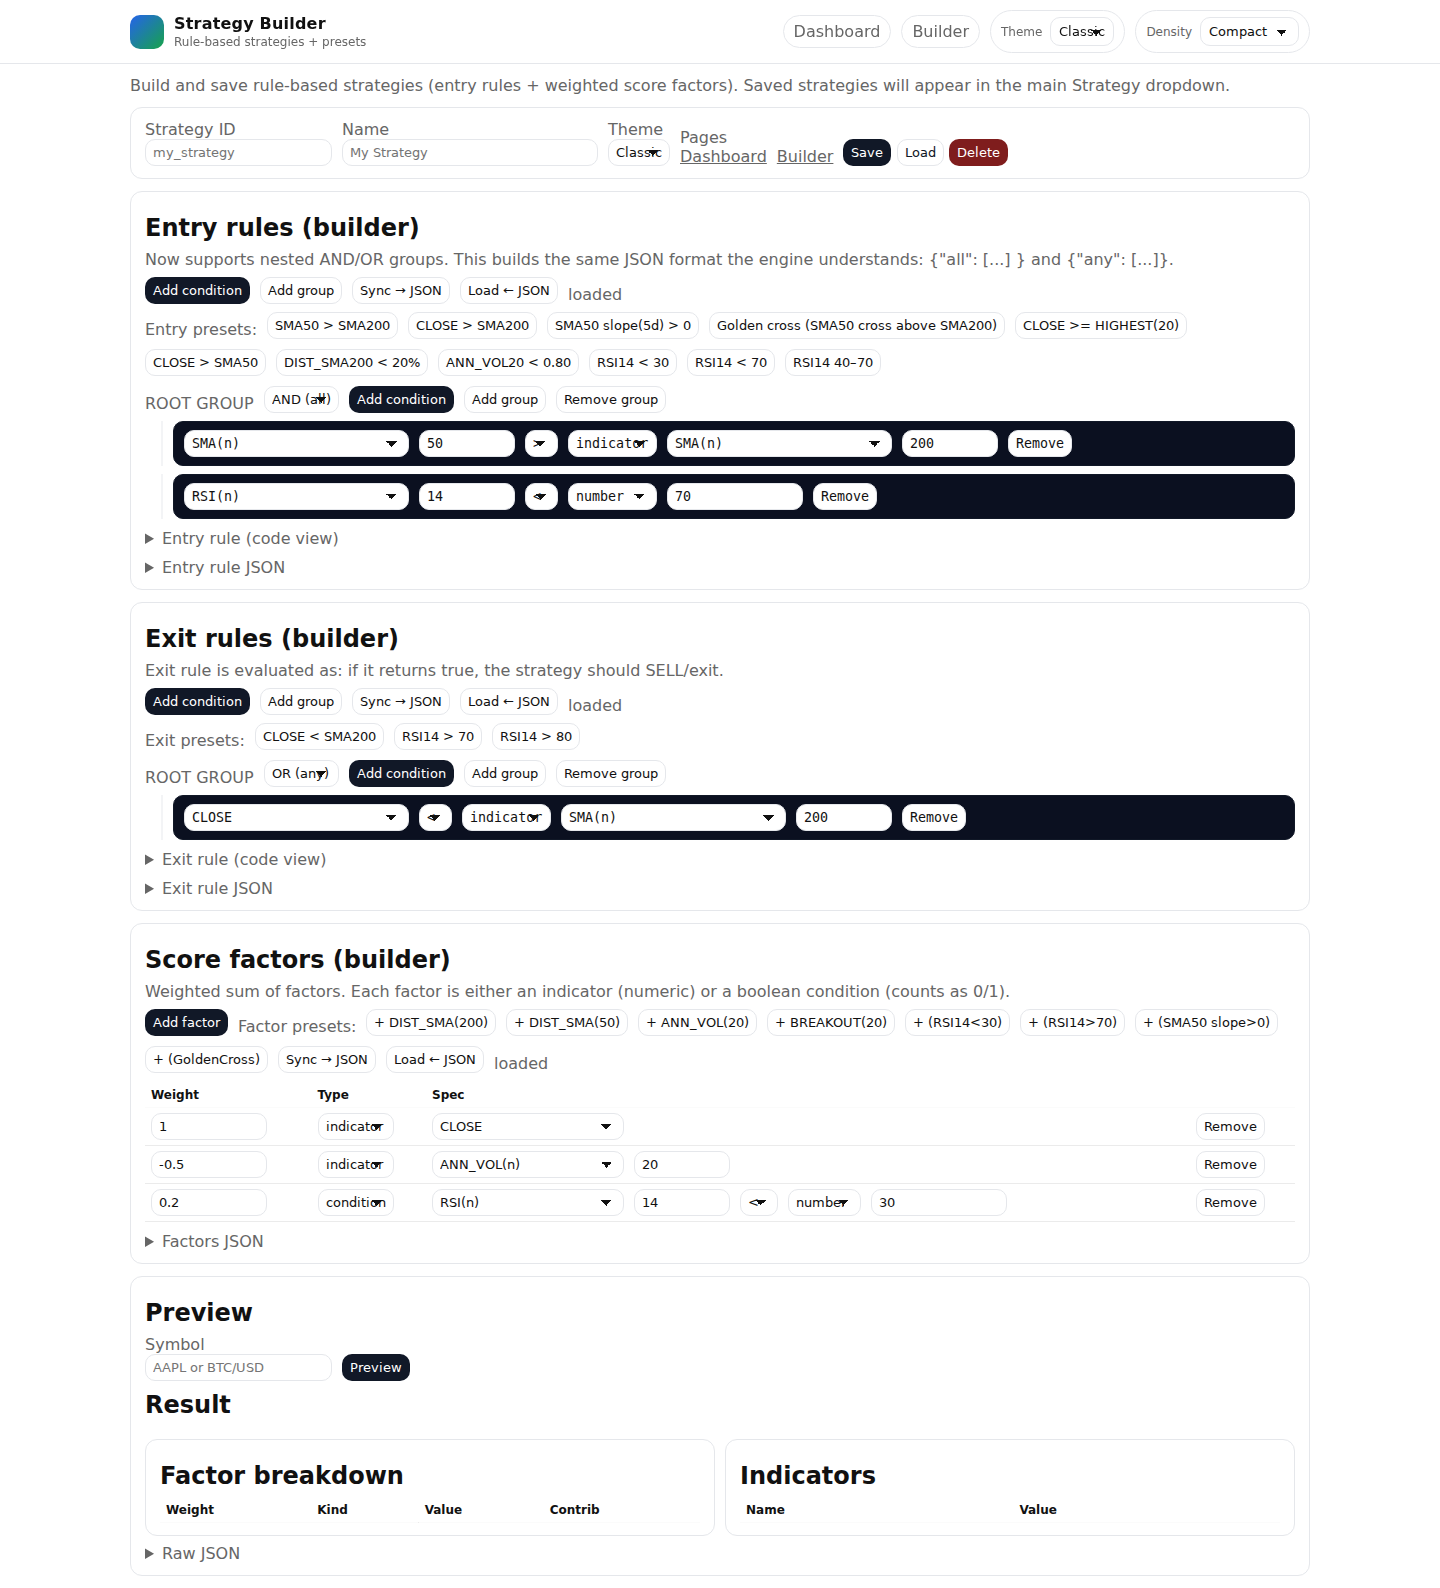
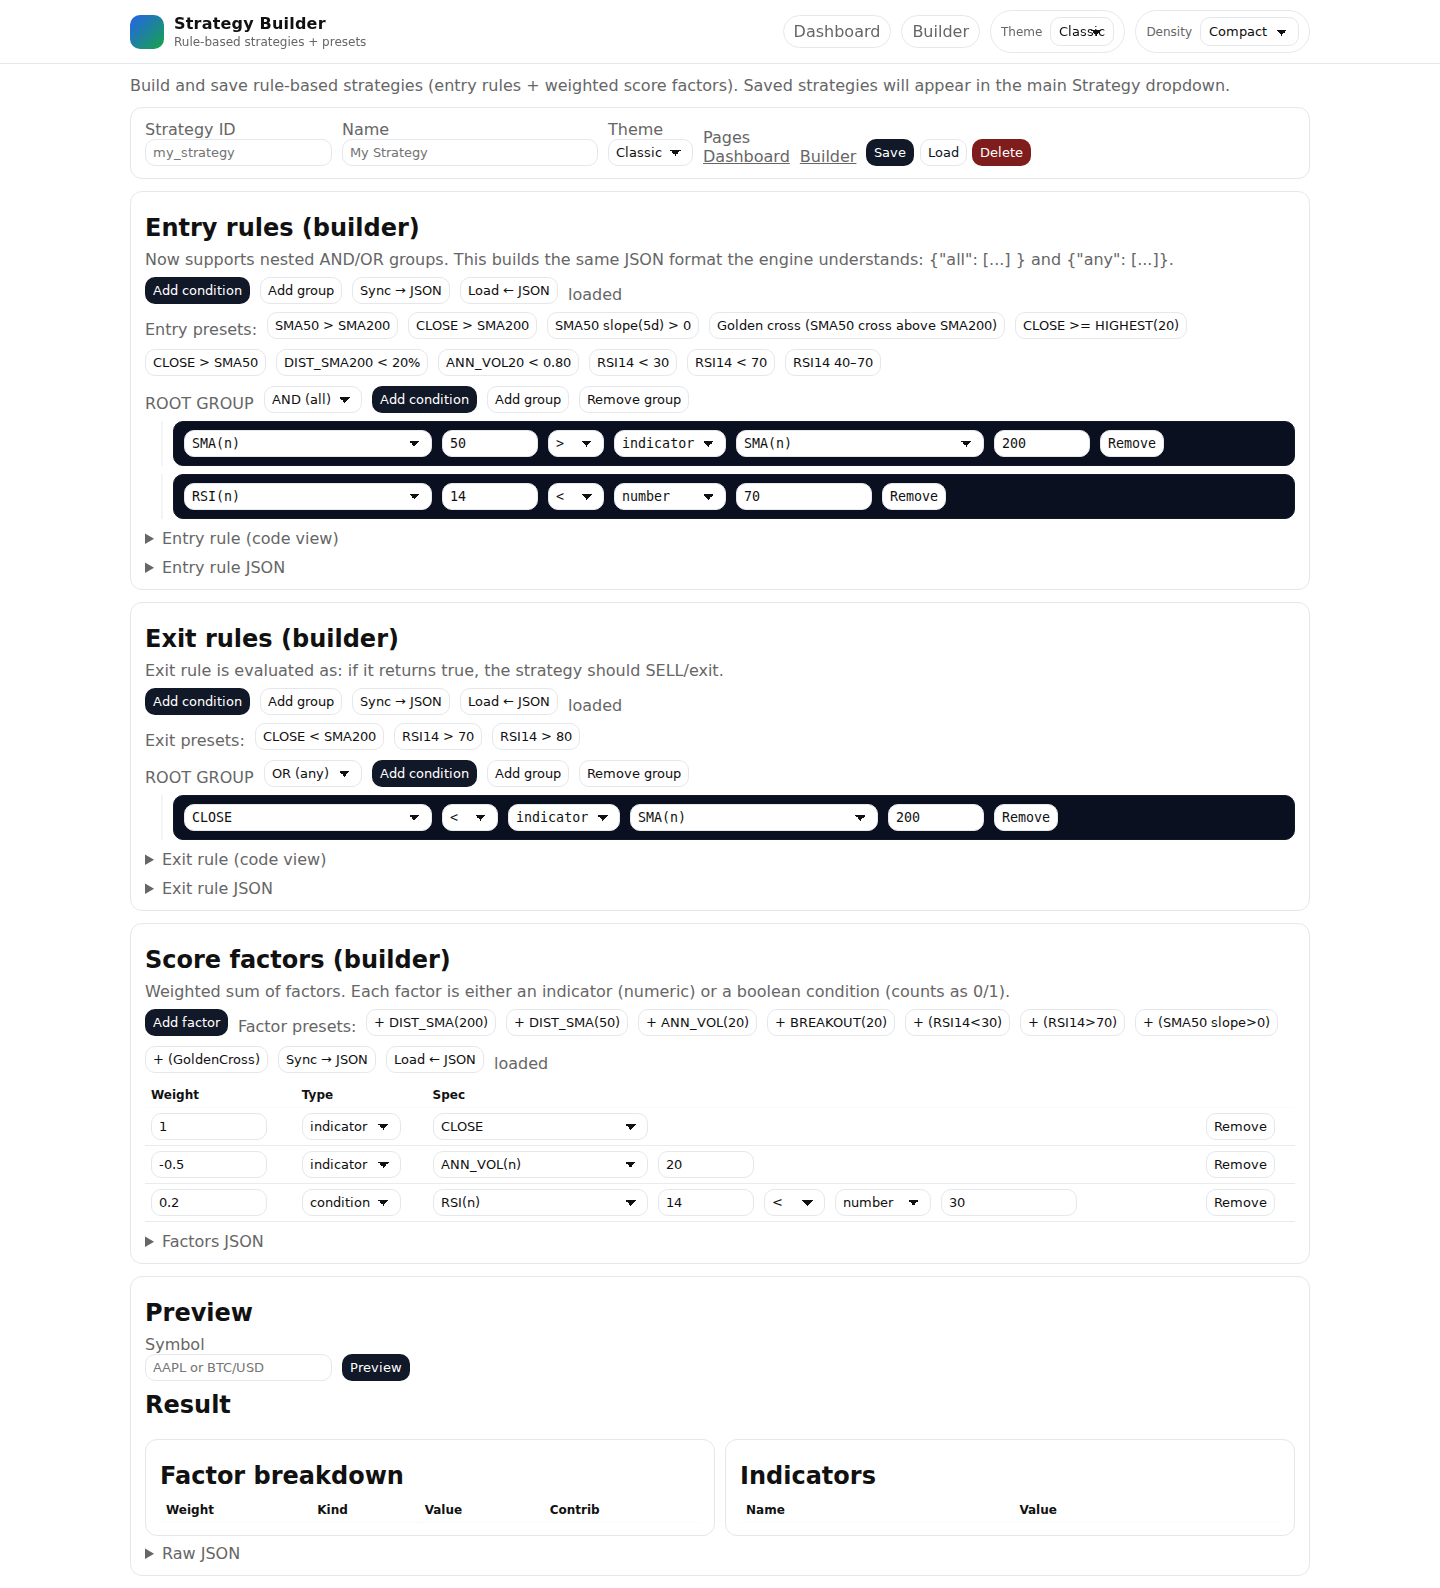
README refresh + updated dashboard/builder screenshots + changelog

diff --git a/README.md b/README.md
@@ -104,7 +104,8 @@ Build a safe, unattended swing/long-term trading bot that:
 - Daily risk-check with drawdown tracking and exit signals
 - Dashboard with monitoring + backtesting UI + Strategy Builder
 - Strategy registry supports built-ins + user-defined strategies
-- Backtest engine supports stocks/crypto, slippage model, portfolio DD stop behavior A, per-asset stop loss, and many toggles
+- Unified preset system (`config/presets.yaml`) for backtest + live/paper parity
+- Backtest engine supports stocks/crypto, slippage + limit-order simulation, intraday execution, order lifecycle events, and many toggles
 
 ---
 
@@ -275,13 +276,14 @@ Default URL:
 - http://127.0.0.1:8008
 
 Dashboard highlights:
-- Account overview, positions, open orders, fills
-- Exposure view including **pending orders** and estimated quantities
+- Account section grouped into meaningful blocks (identity, cash/equity, risk/restrictions, buying power/margin)
+- Open orders, recent fills, exposure view (pending notional/qty)
 - Run artifacts (last rebalance / last risk-check / last placed orders)
-- Backtesting UI (run + history + charts)
-- Strategy dropdown and a button to open the Strategy Builder
-- Action buttons: **Run paper rebalance**, **Run at configured time**, and **Run risk-check** (token-gated if enabled)
-- Extended-hours start time is configurable via `execution.extended_hours_start_time_local` (used by "Run at configured time" when extended-hours is enabled)
+- Backtesting UI with presets, execution modes, limit/fallback modeling, daily ledger, and drilldowns
+- Search filters for realized trades and daily ledger symbols
+- Action buttons: **Run paper rebalance**, **Run at configured time**, and **Run risk-check**
+- Scheduler controls: **Setup cron / Restart cron / Stop cron** + cron detection/status
+- Bot-state flags for queued rebalance and queued daily risk-check, with schedule visibility
 
 ### Dashboard auth token
 Token gating can be enabled/disabled via env/config:
@@ -338,16 +340,21 @@ Backtests run in the background via the dashboard or programmatically.
 ### Features
 - Stocks + crypto support
 - Slippage model (bps)
-- Weekly or daily rebalance
+- Weekly or daily rebalance (+ weekly rebalance day selector)
+- Limit order simulation (with optional fallback to market-at-open)
+- Pending limit lifecycle simulation:
+  - place limit
+  - fill when touched (minute bars when intraday data available)
+  - optional fallback market fill
+  - cancel unfilled at next rebalance boundary
+- Order lifecycle summary in results (placed / filled / fallback / canceled)
 - Liquidation modes:
   - liquidate non-selected
   - hold until exit
 - Per-asset stop loss (daily check)
-- Portfolio drawdown stop (behavior A: liquidate-to-cash, resume next rebalance)
+- Portfolio drawdown stop
 - Strategy selection in the backtest UI
-- Benchmarks overlay (S&P 500 index line; SPY comparison line can be toggled/removed)
-- Interactive charts (Plotly): hover, zoom, range slider, unified x-hover
-- Portfolio RSI plotted under the equity curve
+- Interactive charts + symbol drilldowns + event markers
 - Optional exclusion rule: stop trading a symbol if its P/L falls below a floor
   - optionally includes unrealized P/L
   - optionally liquidates immediately when excluded
@@ -435,3 +442,28 @@ tradebot rebalance --config config/config.yaml --place-orders
 # daily risk check
 tradebot risk-check --config config/config.yaml
 ```
+
+---
+
+## Changelog
+
+### 2026-02-09
+- Added unified preset behavior improvements (config values override preset defaults)
+- Added dashboard execution controls for limit/market behavior, extended-hours, fallback options, and guardrail `none=unlimited`
+- Added dashboard action controls (run rebalance/risk-check now, run at configured time)
+- Added cron scheduler controls in dashboard (setup/restart/stop) with detection/status flags
+- Added bot-state scheduling indicators for rebalance + daily risk-check
+- Added richer account card (BOD/current equity & cash, deltas, grouped sections)
+- Added recent fills comparison: expected price vs filled price + slippage bps (limit + market)
+- Added backtest enhancements:
+  - weekly rebalance day option
+  - limit orders + fallback options
+  - pending limit lifecycle simulation with cancel at next rebalance
+  - order lifecycle summary
+  - search filters for realized trades and daily ledger
+
+### 2026-02-08
+- Added themes/density polish, improved dashboard layout, and screenshot automation
+- Added backtest presets and apply-to-config flow
+- Added symbol drilldown improvements and detailed event markers
+- Added daily ledger section and expanded backtest transparency
